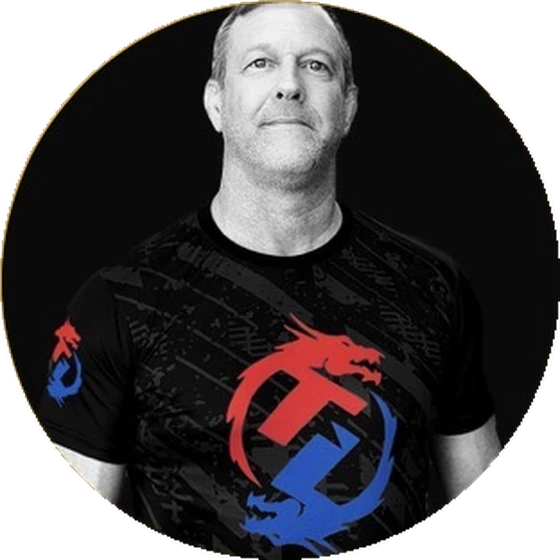
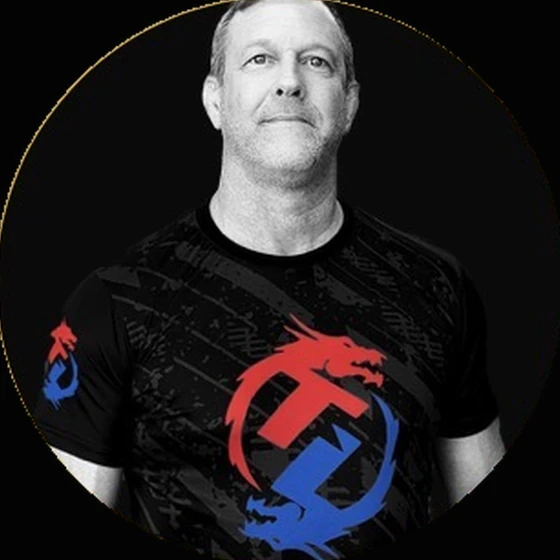
Fill the crests, drop the head count, redraw Scott's ring
Three things off the merger page.

The marks sat inside their discs with a clamp of padding, which read as a
cream ring rather than as breathing room. Both are already circular artwork
trimmed to their own edges, so the padding is gone and they fill. Our maze
mark was also thumbnailed to 440 inside a 480 square, so it carried its own
inset that no CSS change could reach; it is regenerated to fill, and the
crest is trimmed exactly square.

No head count anywhere. The hero said "thirty-plus students" and carried a
30+ stat, and a card was tagged with it. A number invites arithmetic; that
he is bringing his team is the thing worth saying. The hero stat row is
three across now rather than the front page's four.

The portrait's gold ring was baked into the image, one pixel wide and sitting
in the anti-aliased alpha edge. At 150px on a phone that is a third of a
pixel, which is why it broke into a dotted arc. The photograph is a plain
square now and the circle and its ring are drawn by the browser, so both are
redrawn at whatever size the page actually uses. It also dropped from a
254KB PNG to a 45KB JPEG, with a 29KB WebP alongside it.

Claude-Session: https://claude.ai/code/session_01T1jcBhMbJVQd3Vp58LzqMh

diff --git a/legacy/index.html b/legacy/index.html
@@ -16,7 +16,7 @@
 <noscript><link href="https://api.fontshare.com/v2/css?f[]=clash-display@400,500,600,700&f[]=general-sans@300,400,500,600,700&display=swap" rel="stylesheet"></noscript>
 <link rel="stylesheet" href="/base.css?v=04502d32">
 <link rel="stylesheet" href="/style.css?v=00841c2d">
-<link rel="stylesheet" href="/programs.css?v=b6f623ce">
+<link rel="stylesheet" href="/programs.css?v=5f2a21bd">
 <link rel="stylesheet" href="/booking.css?v=722a3d96">
 
 <title>Team Legacy has merged with Labyrinth BJJ | Fulshear, TX</title>
@@ -130,7 +130,7 @@
 
     <h1 class="hero__title"><span class="hero__h1-seo">Team Legacy Martial Arts has merged with Labyrinth BJJ</span> <span class="hero__h1-visual">TWO SCHOOLS. <span>ONE TEAM.</span></span></h1>
 
-    <p class="hero__subtitle">Team Legacy Martial Arts has merged with Labyrinth BJJ. Thirty-plus students, a 7th Dan Grandmaster, and two head coaches on one mat. Come and see what that looks like.</p>
+    <p class="hero__subtitle">Team Legacy Martial Arts has merged with Labyrinth BJJ, and Grandmaster Scott Jones is bringing his team with him. Two head coaches on one mat. Come and see what that looks like.</p>
 
     <div class="hero__ctas">
       <a data-book-trial href="/#book" class="btn btn--gold">Try a free class</a>
@@ -145,10 +145,6 @@
       <div class="hero__stat">
         <div class="hero__stat-value">#1</div>
         <div class="hero__stat-label">In Texas</div>
-      </div>
-      <div class="hero__stat">
-        <div class="hero__stat-value">30+</div>
-        <div class="hero__stat-label">Students joining</div>
       </div>
       <div class="hero__stat">
         <div class="hero__stat-value">7th</div>
@@ -184,7 +180,7 @@
   <div class="container">
     <div class="legacy-coach fade-in">
       <div class="legacy-coach__shot">
-        <picture><source srcset="/assets/coach-scott.webp" type="image/webp"><img src="/assets/coach-scott.png" alt="Grandmaster Scott Jones of Team Legacy Martial Arts, now coaching full time at Labyrinth BJJ" width="560" height="560" loading="lazy"></picture>
+        <picture><source srcset="/assets/coach-scott.webp" type="image/webp"><img src="/assets/coach-scott.jpg" alt="Grandmaster Scott Jones of Team Legacy Martial Arts, now coaching full time at Labyrinth BJJ" width="560" height="560" loading="lazy"></picture>
         <picture class="legacy-coach__mark"><source srcset="/assets/team-legacy-wordmark.webp" type="image/webp"><img src="/assets/team-legacy-wordmark.png" alt="The Team Legacy BJJ and Taekwondo wordmark" width="900" height="727" loading="lazy"></picture>
       </div>
       <div class="legacy-coach__body">
@@ -215,7 +211,7 @@
       <div class="program-card program-card--half">
         <picture><source srcset="/assets/legacy-medals.webp" type="image/webp"><img src="/assets/legacy-medals.jpg" alt="Team Legacy Martial Arts students with their competition medals" class="program-card__image" loading="lazy" width="1200" height="900"></picture>
         <div class="program-card__body">
-          <p class="program-card__tag">Thirty-plus students</p>
+          <p class="program-card__tag">He brought his team</p>
           <h3 class="program-card__title">His Room, Not Just His Name</h3>
           <p class="program-card__desc">The families who trained at Team Legacy are training here now, in the same age groups, with the same coach at the front.</p>
         </div>

diff --git a/programs.css b/programs.css
@@ -685,6 +685,9 @@
    its ring and its lettering, and inverting that turns the blue orange. So
    neither is inverted here and both sit on the same light disc instead, which
    is how a crest is shown on a dark page anyway. */
+/* Three stats, not the front page's four: the head count came off. */
+.legacy-hero .hero__stats { grid-template-columns: repeat(3, 1fr); }
+
 .legacy-marks {
   display: flex;
   align-items: center;
@@ -700,8 +703,10 @@
   height: clamp(104px, 15vw, 168px);
   border-radius: 50%;
   background: #F4F1EA;
-  padding: clamp(12px, 1.6vw, 20px);
-  object-fit: contain;
+  /* No padding: both marks are already circular artwork trimmed to their own
+     edges, so any inset here shows as a cream ring around the logo rather
+     than as breathing room. They fill the disc. */
+  object-fit: cover;
   border: 1px solid var(--border);
   display: block;
 }
@@ -749,13 +754,22 @@
   display: block;
 }
 
-/* The portrait arrived already cut to a circle with its own thin ring, so it
-   gets no border here: a second one drawn outside the first reads as a mistake.
-   It is capped rather than filling the column, because a head shot blown up to
-   420px on a wide screen stops being a portrait and starts being a poster. */
+/* The portrait is a square photograph now, and the circle and its ring are
+   drawn by the browser. The version that shipped carried both baked in, and
+   the gold ring was one pixel wide sitting in the anti-aliased alpha edge: at
+   150px on a phone that is a third of a pixel, so it broke into a dotted arc.
+   border-radius redraws at whatever size the page actually uses.
+
+   Capped rather than filling the column, because a head shot at 420px on a
+   wide screen stops being a portrait and starts being a poster. */
 .legacy-coach__shot > picture:first-child img {
   max-width: 320px;
   margin-inline: auto;
+  aspect-ratio: 1;
+  height: auto;
+  object-fit: cover;
+  border-radius: 50%;
+  border: 3px solid var(--gold);
 }
 
 /* His school's mark under his face, which is the pairing the section is about.

diff --git a/areas/index.html b/areas/index.html
@@ -16,7 +16,7 @@
 <noscript><link href="https://api.fontshare.com/v2/css?f[]=clash-display@400,500,600,700&f[]=general-sans@300,400,500,600,700&display=swap" rel="stylesheet"></noscript>
 <link rel="stylesheet" href="/base.css?v=04502d32">
 <link rel="stylesheet" href="/style.css?v=00841c2d">
-<link rel="stylesheet" href="/programs.css?v=b6f623ce">
+<link rel="stylesheet" href="/programs.css?v=5f2a21bd">
 <link rel="stylesheet" href="/booking.css?v=722a3d96">
 
 <title>Areas We Serve: Fulshear, Katy, Richmond &amp; Beyond | Labyrinth BJJ</title>

diff --git a/coaches/shaun-lawler.html b/coaches/shaun-lawler.html
@@ -16,7 +16,7 @@
 <noscript><link href="https://api.fontshare.com/v2/css?f[]=clash-display@400,500,600,700&f[]=general-sans@300,400,500,600,700&display=swap" rel="stylesheet"></noscript>
 <link rel="stylesheet" href="/base.css?v=04502d32">
 <link rel="stylesheet" href="/style.css?v=00841c2d">
-<link rel="stylesheet" href="/programs.css?v=b6f623ce">
+<link rel="stylesheet" href="/programs.css?v=5f2a21bd">
 <link rel="stylesheet" href="/booking.css?v=722a3d96">
 
 <title>Prof. Shaun Lawler, Black Belt Professor | Labyrinth BJJ Fulshear</title>

diff --git a/coaches/anthony-curry.html b/coaches/anthony-curry.html
@@ -16,7 +16,7 @@
 <noscript><link href="https://api.fontshare.com/v2/css?f[]=clash-display@400,500,600,700&f[]=general-sans@300,400,500,600,700&display=swap" rel="stylesheet"></noscript>
 <link rel="stylesheet" href="/base.css?v=04502d32">
 <link rel="stylesheet" href="/style.css?v=00841c2d">
-<link rel="stylesheet" href="/programs.css?v=b6f623ce">
+<link rel="stylesheet" href="/programs.css?v=5f2a21bd">
 <link rel="stylesheet" href="/booking.css?v=722a3d96">
 
 <title>Prof. Anthony Curry, Head Instructor &amp; Owner | Labyrinth BJJ</title>

diff --git a/areas/bjj-brookshire.html b/areas/bjj-brookshire.html
@@ -16,7 +16,7 @@
 <noscript><link href="https://api.fontshare.com/v2/css?f[]=clash-display@400,500,600,700&f[]=general-sans@300,400,500,600,700&display=swap" rel="stylesheet"></noscript>
 <link rel="stylesheet" href="/base.css?v=04502d32">
 <link rel="stylesheet" href="/style.css?v=00841c2d">
-<link rel="stylesheet" href="/programs.css?v=b6f623ce">
+<link rel="stylesheet" href="/programs.css?v=5f2a21bd">
 <link rel="stylesheet" href="/booking.css?v=722a3d96">
 
 <title>Brazilian Jiu-Jitsu for Brookshire, TX | Labyrinth BJJ Fulshear</title>

diff --git a/coaches/index.html b/coaches/index.html
@@ -16,7 +16,7 @@
 <noscript><link href="https://api.fontshare.com/v2/css?f[]=clash-display@400,500,600,700&f[]=general-sans@300,400,500,600,700&display=swap" rel="stylesheet"></noscript>
 <link rel="stylesheet" href="/base.css?v=04502d32">
 <link rel="stylesheet" href="/style.css?v=00841c2d">
-<link rel="stylesheet" href="/programs.css?v=b6f623ce">
+<link rel="stylesheet" href="/programs.css?v=5f2a21bd">
 <link rel="stylesheet" href="/booking.css?v=722a3d96">
 
 <title>Our Coaches: Black Belt Instructors in Fulshear | Labyrinth BJJ</title>

diff --git a/areas/bjj-rosenberg.html b/areas/bjj-rosenberg.html
@@ -16,7 +16,7 @@
 <noscript><link href="https://api.fontshare.com/v2/css?f[]=clash-display@400,500,600,700&f[]=general-sans@300,400,500,600,700&display=swap" rel="stylesheet"></noscript>
 <link rel="stylesheet" href="/base.css?v=04502d32">
 <link rel="stylesheet" href="/style.css?v=00841c2d">
-<link rel="stylesheet" href="/programs.css?v=b6f623ce">
+<link rel="stylesheet" href="/programs.css?v=5f2a21bd">
 <link rel="stylesheet" href="/booking.css?v=722a3d96">
 
 <title>Brazilian Jiu-Jitsu for Rosenberg, TX | Labyrinth BJJ Fulshear</title>

diff --git a/programs/index.html b/programs/index.html
@@ -16,7 +16,7 @@
 <noscript><link href="https://api.fontshare.com/v2/css?f[]=clash-display@400,500,600,700&f[]=general-sans@300,400,500,600,700&display=swap" rel="stylesheet"></noscript>
 <link rel="stylesheet" href="/base.css?v=04502d32">
 <link rel="stylesheet" href="/style.css?v=00841c2d">
-<link rel="stylesheet" href="/programs.css?v=b6f623ce">
+<link rel="stylesheet" href="/programs.css?v=5f2a21bd">
 <link rel="stylesheet" href="/booking.css?v=722a3d96">
 
 <title>Programs: Kids & Adult BJJ, Wrestling | Labyrinth BJJ Fulshear</title>

diff --git a/programs/kids-bjj-fulshear.html b/programs/kids-bjj-fulshear.html
@@ -16,7 +16,7 @@
 <noscript><link href="https://api.fontshare.com/v2/css?f[]=clash-display@400,500,600,700&f[]=general-sans@300,400,500,600,700&display=swap" rel="stylesheet"></noscript>
 <link rel="stylesheet" href="/base.css?v=04502d32">
 <link rel="stylesheet" href="/style.css?v=00841c2d">
-<link rel="stylesheet" href="/programs.css?v=b6f623ce">
+<link rel="stylesheet" href="/programs.css?v=5f2a21bd">
 <link rel="stylesheet" href="/booking.css?v=722a3d96">
 
 <title>Kids BJJ Classes in Fulshear, TX (Ages 3–15) | Labyrinth BJJ</title>

diff --git a/programs/summer-camp-fulshear.html b/programs/summer-camp-fulshear.html
@@ -16,7 +16,7 @@
 <noscript><link href="https://api.fontshare.com/v2/css?f[]=clash-display@400,500,600,700&f[]=general-sans@300,400,500,600,700&display=swap" rel="stylesheet"></noscript>
 <link rel="stylesheet" href="/base.css?v=04502d32">
 <link rel="stylesheet" href="/style.css?v=00841c2d">
-<link rel="stylesheet" href="/programs.css?v=b6f623ce">
+<link rel="stylesheet" href="/programs.css?v=5f2a21bd">
 <link rel="stylesheet" href="/booking.css?v=722a3d96">
 
 <title>Kids Summer Camp in Fulshear, TX (Ages 5–15) | Labyrinth BJJ</title>

diff --git a/areas/bjj-richmond.html b/areas/bjj-richmond.html
@@ -16,7 +16,7 @@
 <noscript><link href="https://api.fontshare.com/v2/css?f[]=clash-display@400,500,600,700&f[]=general-sans@300,400,500,600,700&display=swap" rel="stylesheet"></noscript>
 <link rel="stylesheet" href="/base.css?v=04502d32">
 <link rel="stylesheet" href="/style.css?v=00841c2d">
-<link rel="stylesheet" href="/programs.css?v=b6f623ce">
+<link rel="stylesheet" href="/programs.css?v=5f2a21bd">
 <link rel="stylesheet" href="/booking.css?v=722a3d96">
 
 <title>Brazilian Jiu-Jitsu for Richmond, TX | Labyrinth BJJ Fulshear</title>
